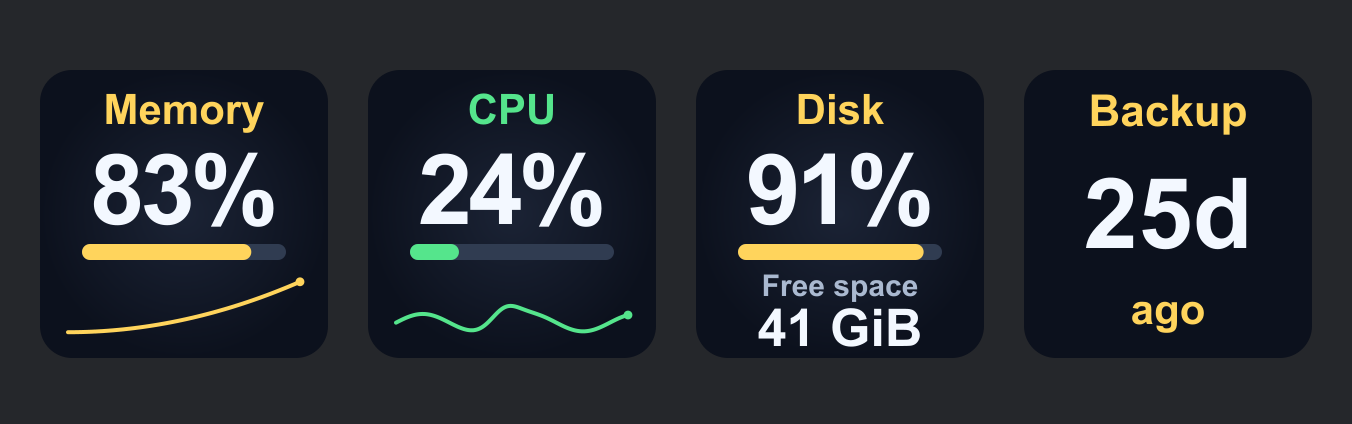
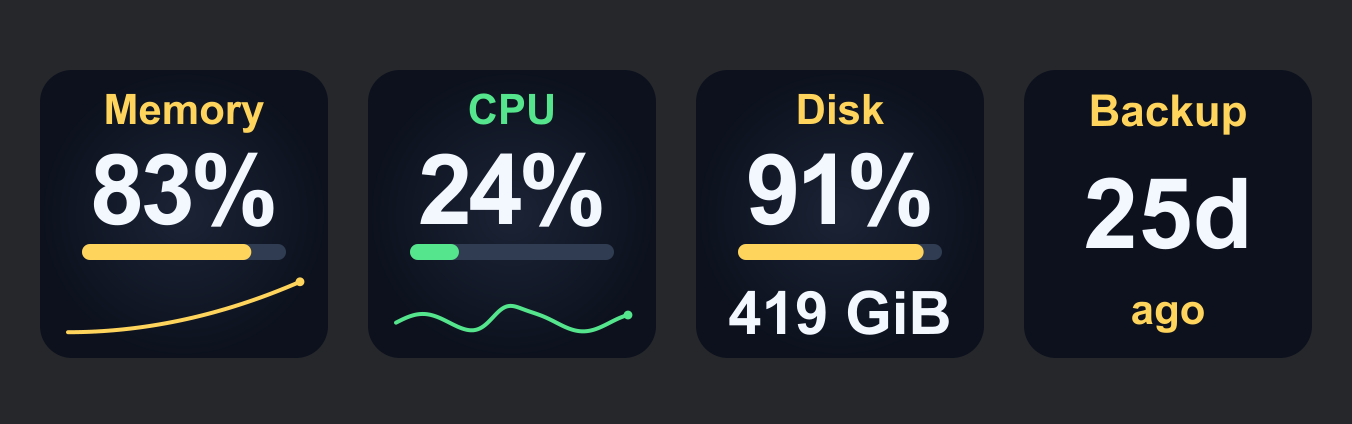
Toggle disk used and remaining capacity on key press

Changed region(s): [[0.5281, 0.6439, 0.7145, 0.8278]]

diff --git a/com.astakhoff.mac-health.sdPlugin/ui/settings.html b/com.astakhoff.mac-health.sdPlugin/ui/settings.html
@@ -1,9 +1,9 @@
 <!doctype html><html lang="en"><meta charset="utf-8"><style>
-*{box-sizing:border-box}body{margin:16px;background:#202124;color:#e7ebf1;font:13px -apple-system,BlinkMacSystemFont,sans-serif}h3{color:#a7c9ed;font-size:13px;letter-spacing:1px}p{color:#b3bdcc;line-height:1.5}label{display:block;margin:12px 0 5px}input{width:100%;height:32px;padding:4px;background:#11151c;border:1px solid #465065;border-radius:6px;color:white}#preview{float:right;width:90px;height:90px;margin:0 0 10px 10px}#status{clear:both;background:#171c24;border-radius:8px;padding:12px;white-space:pre-line;line-height:1.5}.row{display:grid;grid-template-columns:1fr 1fr;gap:12px}.colors{display:grid;grid-template-columns:repeat(3,1fr);gap:10px}#error{color:#ffd45c;margin-top:10px}[hidden]{display:none!important}a{color:#a7c9ed}
+*{box-sizing:border-box}body{margin:16px;background:#202124;color:#e7ebf1;font:13px -apple-system,BlinkMacSystemFont,sans-serif}h3{color:#a7c9ed;font-size:13px;letter-spacing:1px}p{color:#b3bdcc;line-height:1.5}label{display:block;margin:12px 0 5px}select{background:#11151c;color:white;padding:8px;width:100%}input{width:100%;height:32px;padding:4px;background:#11151c;border:1px solid #465065;border-radius:6px;color:white}#preview{float:right;width:90px;height:90px;margin:0 0 10px 10px}#status{clear:both;background:#171c24;border-radius:8px;padding:12px;white-space:pre-line;line-height:1.5}.row{display:grid;grid-template-columns:1fr 1fr;gap:12px}.colors{display:grid;grid-template-columns:repeat(3,1fr);gap:10px}#error{color:#ffd45c;margin-top:10px}[hidden]{display:none!important}a{color:#a7c9ed}
 </style><img id="preview" alt="Mac Health key preview"><h3 id="heading">MAC HEALTH</h3><p id="description">Connecting to the local monitor…</p><div id="status">Waiting for measurements</div>
 <section id="cpu" hidden><h3>CPU WARNING THRESHOLDS</h3><p>Percent of total CPU capacity, averaged over up to 10 seconds.</p><div class="row"><label>Warning at (%)<input id="cpuWarning" type="number" min="1" max="99"></label><label>Critical at (%)<input id="cpuCritical" type="number" min="2" max="100"></label></div></section>
-<section id="disk" hidden><h3>DISK WARNING THRESHOLDS</h3><p>Warn when either available percentage or available GiB reaches its threshold. This is capacity, not disk activity or drive health.</p><div class="row"><label>Warning below (%)<input id="diskWarning" type="number" min="1" max="100"></label><label>Critical below (%)<input id="diskCritical" type="number" min="0" max="99"></label><label>Warning below (GiB)<input id="diskWarningGiB" type="number" min="0" step="1"></label><label>Critical below (GiB)<input id="diskCriticalGiB" type="number" min="0" step="1"></label></div></section>
-<h3>STATUS COLORS</h3><p>Green: normal. Yellow: warning. Red: critical. Colors are fixed; status words appear here in settings, not on the key. Gray means readings are unavailable.</p><div id="error"></div><p>Resource readings update every 2 seconds; Time Machine metadata updates every minute while a Mac Health key is visible. Each metric is a separate action. Press the key to open Activity Monitor, Disk Utility for Disk, or System Settings for Backup.</p><p><a href="https://github.com/Astakhoff/stream_deck_mac_health/blob/main/docs/INSTALLATION.md">Setup and interpretation guide</a></p>
+<section id="disk" hidden><h3>DISK DISPLAY</h3><label>Percentage and capacity<select id="diskMode"><option value="used">Used</option><option value="remaining">Remaining</option></select></label><p>Press the key to switch modes. The bar always shows used capacity. Color always follows available-space thresholds.</p><h3>DISK WARNING THRESHOLDS</h3><p>Warn when either available percentage or available GiB reaches its threshold. This is capacity, not disk activity or drive health.</p><div class="row"><label>Warning below (%)<input id="diskWarning" type="number" min="1" max="100"></label><label>Critical below (%)<input id="diskCritical" type="number" min="0" max="99"></label><label>Warning below (GiB)<input id="diskWarningGiB" type="number" min="0" step="1"></label><label>Critical below (GiB)<input id="diskCriticalGiB" type="number" min="0" step="1"></label></div></section>
+<h3>STATUS COLORS</h3><p>Green: normal. Yellow: warning. Red: critical. Colors are fixed; status words appear here in settings, not on the key. Gray means readings are unavailable.</p><div id="error"></div><p>Resource readings update every 2 seconds; Time Machine metadata updates every minute while a Mac Health key is visible. Each metric is a separate action. Press Memory or CPU to open Activity Monitor; press Backup to open System Settings. Press Disk to toggle Used / Remaining.</p><p><a href="https://github.com/Astakhoff/stream_deck_mac_health/blob/main/docs/INSTALLATION.md">Setup and interpretation guide</a></p>
 <script>
 let ws,uuid,action,type,config={};
 const defaults={cpuWarning:80,cpuCritical:95,diskWarning:10,diskCritical:5,diskWarningGiB:20,diskCriticalGiB:10};
@@ -11,21 +11,22 @@ const ids=Object.keys(defaults);
 const gib=n=>typeof n==='number'?(n/1024**3).toFixed(1)+' GiB':'Unknown';
 function send(event,payload){if(ws?.readyState===1)ws.send(JSON.stringify({event,context:uuid,payload}));}
 window.connectElgatoStreamDeckSocket=function(port,id,registerEvent,info,actionInfo){
- uuid=id;const a=JSON.parse(actionInfo);action=a.action;type=action.split('.').at(-1);config={...defaults,...a.payload?.settings};
+ uuid=id;const a=JSON.parse(actionInfo);action=a.action;type=action.split('.').at(-1);config={...defaults,diskMode:'used',...a.payload?.settings};document.getElementById('diskMode').value=config.diskMode;
  document.getElementById('heading').textContent=type==='cpu'?'CPU':type==='disk'?'DISK':type==='backup'?'BACKUP':'MEMORY';
- document.getElementById('description').textContent={memory:'Color follows macOS memory pressure. The percentage estimates physical memory in use, excluding reclaimable file cache. The schematic line shows swap allocation over the last 5 minutes. A flat line means swap allocation is stable; rising allocation alone does not determine pressure.',cpu:'Overall CPU usage across all logical processors. 100% means all CPU capacity is busy; the line shows raw load over the last 5 minutes. Color combines averaged load and macOS thermal pressure; this is not a Celsius measurement.',backup:'Time since the latest known completed Time Machine backup across configured destinations. Reads local metadata every minute, even when the backup disk is disconnected. Green: under 7 days; yellow: 7–29 days; red: 30+ days. Months represent 30-day periods. Unknown does not mean you have never backed up. Press to open System Settings.',disk:'Used capacity and available space on the startup data volume. APFS volumes share container capacity; purgeable storage is not counted as immediately available.'}[type];
+ document.getElementById('description').textContent={memory:'Color follows macOS memory pressure. The percentage estimates physical memory in use, excluding reclaimable file cache. The schematic line shows swap allocation over the last 5 minutes. A flat line means swap allocation is stable; rising allocation alone does not determine pressure.',cpu:'Overall CPU usage across all logical processors. 100% means all CPU capacity is busy; the line shows raw load over the last 5 minutes. Color combines averaged load and macOS thermal pressure; this is not a Celsius measurement.',backup:'Time since the latest known completed Time Machine backup across configured destinations. Reads local metadata every minute, even when the backup disk is disconnected. Green: under 7 days; yellow: 7–29 days; red: 30+ days. Months represent 30-day periods. Unknown does not mean you have never backed up. Press to open System Settings.',disk:'Toggle used or remaining percentage and matching GiB on the startup data volume. The bar always shows used capacity. APFS volumes share container capacity; purgeable storage is not counted as immediately available.'}[type];
  if(type==='cpu'||type==='disk')document.getElementById(type).hidden=false;
  document.getElementById('preview').src='../imgs/'+type+'-key.svg';
  ids.forEach(k=>document.getElementById(k).value=config[k]);
  ws=new WebSocket('ws://127.0.0.1:'+port);ws.onopen=()=>ws.send(JSON.stringify({event:registerEvent,uuid}));
- ws.onmessage=e=>{const m=JSON.parse(e.data);if(m.event!=='sendToPropertyInspector')return;const {sample,error,image,view}=m.payload;
+ ws.onmessage=e=>{const m=JSON.parse(e.data);if(m.event!=='sendToPropertyInspector')return;const {sample,error,image,view}=m.payload;if(m.payload.settings){config={...config,...m.payload.settings};document.getElementById('diskMode').value=config.diskMode;}
  if(image)document.getElementById('preview').src=image;
  let text=view?view.label+' · '+view.main:'Waiting for measurements';
- if(sample){if(type==='backup')text+='\nLatest known completed backup: '+(sample.backup?.lastCompleted?new Date(sample.backup.lastCompleted).toLocaleString('en-US'):'Unknown')+'\nMetadata checked: '+(sample.backup?.checkedAt?new Date(sample.backup.checkedAt).toLocaleString('en-US'):'Unavailable')+'\nSource: local Time Machine destination metadata. No backup files are read.';text+='\nChecked: '+new Date(sample.timestamp).toLocaleTimeString('en-US');if(type==='memory')text+='\nUsed estimate: '+gib(sample.memory?.used)+' / '+gib(sample.memory?.total)+'\nCompressed: '+gib(sample.memory?.compressed)+'\nSwap: '+gib(sample.memory?.swap)+'\nmacOS pressure level: '+(sample.memory?.pressure??'Unavailable');if(type==='disk')text+='\nAvailable: '+gib(sample.disk?.available)+' / '+gib(sample.disk?.total);if(type==='cpu')text+='\nAveraging window: '+sample.cpuWindowSeconds+' seconds\nSystem thermal state: '+(['Nominal','Fair','Serious','Critical'][sample.thermal]??'Unavailable');
+ if(sample){if(type==='backup')text+='\nLatest known completed backup: '+(sample.backup?.lastCompleted?new Date(sample.backup.lastCompleted).toLocaleString('en-US'):'Unknown')+'\nMetadata checked: '+(sample.backup?.checkedAt?new Date(sample.backup.checkedAt).toLocaleString('en-US'):'Unavailable')+'\nSource: local Time Machine destination metadata. No backup files are read.';text+='\nChecked: '+new Date(sample.timestamp).toLocaleTimeString('en-US');if(type==='memory')text+='\nUsed estimate: '+gib(sample.memory?.used)+' / '+gib(sample.memory?.total)+'\nCompressed: '+gib(sample.memory?.compressed)+'\nSwap: '+gib(sample.memory?.swap)+'\nmacOS pressure level: '+(sample.memory?.pressure??'Unavailable');if(type==='disk')text+='\nDisplay: '+(config.diskMode==='remaining'?'Remaining':'Used')+'\nAvailable: '+gib(sample.disk?.available)+' / '+gib(sample.disk?.total);if(type==='cpu')text+='\nAveraging window: '+sample.cpuWindowSeconds+' seconds\nSystem thermal state: '+(['Nominal','Fair','Serious','Critical'][sample.thermal]??'Unavailable');
  const series=type==='memory'?sample.history?.swap:type==='cpu'?sample.history?.cpu:null;
  if(series?.length){const valid=series.filter(p=>typeof p.value==='number');text+='\nGraph: rolling 5-minute window; '+(valid.length?Math.round((valid.at(-1).timestamp-valid[0].timestamp)/1000):0)+' seconds collected';if(type==='memory'&&valid.length>1){const delta=(valid.at(-1).value-valid[0].value)/1024**2;text+='\nSwap change over collected samples: '+(delta>=0?'+':'')+delta.toFixed(1)+' MiB';}}}
  if(error)text+='\n'+error+' — check the installation guide.';document.getElementById('status').textContent=text;};
 };
+document.getElementById('diskMode').addEventListener('change',e=>{config={...config,diskMode:e.target.value};send('setSettings',config);});
 ids.forEach(id=>document.getElementById(id).addEventListener('change',()=>{
  const next={...config};ids.forEach(k=>next[k]=Number(document.getElementById(k).value));
  const valid=Number.isFinite(next.cpuWarning)&&next.cpuWarning>=1&&next.cpuWarning<next.cpuCritical&&next.cpuCritical<=100&&next.diskCritical>=0&&next.diskCritical<next.diskWarning&&next.diskWarning<=100&&next.diskCriticalGiB>=0&&next.diskCriticalGiB<next.diskWarningGiB&&next.diskWarningGiB<=100000;

diff --git a/com.astakhoff.mac-health.sdPlugin/bin/metrics.js b/com.astakhoff.mac-health.sdPlugin/bin/metrics.js
@@ -3,7 +3,7 @@ const GIB = 1024 ** 3;
 const finite = (n) => typeof n === 'number' && Number.isFinite(n);
 const defaults = {cpuWarning:80,cpuCritical:95,diskWarning:10,diskCritical:5,diskWarningGiB:20,diskCriticalGiB:10};
 function settings(raw={}) {
-  const s={...defaults};
+  const s={...defaults,diskMode:raw.diskMode==='remaining'?'remaining':'used'};
   for(const key of ['cpuWarning','cpuCritical','diskWarning','diskCritical','diskWarningGiB','diskCriticalGiB']) if(raw[key]!==undefined && Number.isFinite(Number(raw[key]))) s[key]=Number(raw[key]);
   if(!(s.cpuWarning>=1 && s.cpuWarning<s.cpuCritical && s.cpuCritical<=100)) {s.cpuWarning=80;s.cpuCritical=95;}
   if(!(s.diskCritical>=0 && s.diskCritical<s.diskWarning && s.diskWarning<=100)) {s.diskWarning=10;s.diskCritical=5;}
@@ -57,6 +57,7 @@ function view(kind,data,config={},error=null,now=Date.now()) {
   const level=classify(kind,data,config), label={normal:'Normal',warning:'Warning',critical:'Critical',unknown:'Unknown'}[level];
   if(kind==='memory') return {title:'Memory',main:data.memory?Math.round(data.memory.percent)+'%':'—',label,detail:data.memory?.swap!==null&&data.memory? 'Swap '+gib(data.memory.swap):'Swap unknown',graph:{points:data.history?.swap||[],windowEnd:data.timestamp,minSpan:256*1024**2},percent:data.memory?.percent??null,level};
   if(kind==='cpu') return {title:'CPU',main:finite(data.cpuAverage)?Math.round(data.cpuAverage)+'%':'—',label:finite(data.cpuAverage)?label:'Sampling',detail:finite(data.cpuAverage)?'CPU load history':'First sample…',graph:{points:data.history?.cpu||[],windowEnd:data.timestamp,min:0,max:100},percent:data.cpuAverage,level};
-  return {title:'Disk',main:data.disk?Math.round(data.disk.percent)+'%':'—',label,detail:data.disk?gib(data.disk.available)+' free':'No disk data',detailLabel:'Free space',detailValue:data.disk?gib(data.disk.available):'Unknown',percent:data.disk?.percent??null,level};
+  const remaining=settings(config).diskMode==='remaining';
+  return {title:'Disk',main:data.disk?Math.round(remaining?data.disk.freePercent:data.disk.percent)+'%':'—',label,detail:data.disk?gib(remaining?data.disk.available:data.disk.total-data.disk.available):'No disk data',percent:data.disk?.percent??null,level,diskMode:remaining?'remaining':'used'};
 }
 module.exports={GIB,defaults,settings,normalize,createAverage,classify,view,gib};

diff --git a/com.astakhoff.mac-health.sdPlugin/bin/render.js b/com.astakhoff.mac-health.sdPlugin/bin/render.js
@@ -11,7 +11,7 @@ function render(v,raw={}) {
       ? renderGraph(v.graph,color)
     : v.detailLabel
       ? `<text x="72" y="113" font-size="15" fill="#aab9d0">${escape(v.detailLabel)}</text><text x="72" y="138" font-size="26" fill="#f3f8ff">${escape(v.detailValue)}</text>`
-      : `<text x="72" y="130" font-size="25" fill="#f3f8ff">${escape(v.detail)}</text>`;
+      : `<text x="72" y="132" font-size="30" fill="#f3f8ff">${escape(v.detail)}</text>`;
   const percent=typeof v.percent==='number'&&Number.isFinite(v.percent)?Math.max(0,Math.min(100,v.percent)):null;
   return `<svg xmlns="http://www.w3.org/2000/svg" width="144" height="144" viewBox="0 0 144 144"><defs><radialGradient id="bg"><stop stop-color="#1b2335"/><stop offset="1" stop-color="#0c111d"/></radialGradient></defs><rect width="144" height="144" rx="16" fill="url(#bg)"/><g font-family="Arial,Helvetica,sans-serif" text-anchor="middle" font-weight="800"><text x="72" y="27" font-size="21" fill="${color}">${escape(v.title)}</text><text x="72" y="77" font-size="49" letter-spacing="-2" fill="#f3f8ff">${escape(v.main)}</text><rect x="21" y="87" width="102" height="8" rx="4" fill="#303c51"/>${percent>0?`<rect x="21" y="87" width="${102*percent/100}" height="8" rx="4" fill="${color}"/>`:''}${bottom}</g></svg>`;
 }

diff --git a/com.astakhoff.mac-health.sdPlugin/bin/controller.js b/com.astakhoff.mac-health.sdPlugin/bin/controller.js
@@ -24,7 +24,13 @@ function createController(sd,monitor,openApp){
   sd.ui.onDidAppear(ev=>{const r=actions.get(ev.action.id);if(r)paint(r);});
   sd.actions.onKeyDown(async ev=>{
     const r=actions.get(ev.action.id);if(!r)return;
-    try{await openApp(r.type==='backup'?'com.apple.systempreferences':r.type==='disk'?'com.apple.DiskUtility':'com.apple.ActivityMonitor');}
+    if(r.type==='disk'){
+      const next={...r.config,diskMode:r.config.diskMode==='remaining'?'used':'remaining'};
+      try{await r.action.setSettings(next);r.config=next;paint(r);}
+      catch{await Promise.resolve(ev.action.showAlert()).catch(()=>{});}
+      return;
+    }
+    try{await openApp(r.type==='backup'?'com.apple.systempreferences':'com.apple.ActivityMonitor');}
     catch{await Promise.resolve(ev.action.showAlert()).catch(()=>{});}
   });
   monitor.on('sample',paintAll);monitor.on('problem',paintAll);

diff --git a/README.md b/README.md
@@ -12,10 +12,10 @@ The keys help you notice resource pressure while working with many applications.
 | --- | --- | --- | --- |
 | Memory | Estimated physical RAM used | macOS coarse memory-pressure level | Schematic 5-minute swap trend |
 | CPU | Average total CPU usage over up to 10 seconds | Configurable CPU thresholds | Schematic 5-minute load trend |
-| Disk | Used startup data-volume capacity | Configurable available-space thresholds | Available space in GiB |
+| Disk | Used or remaining percentage; bar always shows used capacity | Configurable available-space thresholds | Used or remaining GiB |
 | Backup | Time since last known completed Time Machine backup | Age: green <7d, yellow 7–29d, red ≥30d | ago |
 
-Status words are hidden on keys: the title and bar use fixed green (normal), yellow (warning), and red (critical). Memory and CPU use the lower area for schematic rolling 5-minute graphs, without axes, scales, legends, or extra numbers. Disk retains its large available-space amount. Status text remains in action settings; unavailable readings stay explicitly marked. Each action has its own thresholds where applicable. All visible actions share one small native sampler, which reads system counters every **2 seconds**. Sampling stops when no Mac Health action is visible. Press Memory or CPU to open Activity Monitor; press Disk to open Disk Utility.
+Status words are hidden on keys: the title and bar use fixed green (normal), yellow (warning), and red (critical). Memory and CPU use the lower area for schematic rolling 5-minute graphs, without axes, scales, legends, or extra numbers. Disk shows a large capacity amount matching the selected Used / Remaining mode, without a Free space caption. Status text remains in action settings; unavailable readings stay explicitly marked. Each action has its own thresholds where applicable. All visible actions share one small native sampler, which reads system counters every **2 seconds**. Sampling stops when no Mac Health action is visible. Press Memory or CPU to open Activity Monitor; press Disk to toggle **Used / Remaining**; the selected mode is saved per key.
 
 ### Memory
 
@@ -33,7 +33,7 @@ Defaults: **Warning at 80%**, **Critical at 95%**. Brief spikes are averaged; co
 
 ### Disk
 
-Disk reads available capacity on `/System/Volumes/Data`. Defaults:
+Disk reads capacity on `/System/Volumes/Data`. Press to toggle between used percentage + used GiB and remaining percentage + available GiB. The bar always shows used capacity in either mode. The selected mode is saved per key and can also be changed in settings. Existing keys start in Used mode; the first press shows Remaining. Color always follows available-space thresholds. Defaults:
 
 - Warning: **10% or less free**, or **20 GiB or less available**.
 - Critical: **5% or less free**, or **10 GiB or less available**.

diff --git a/docs/INSTALLATION.md b/docs/INSTALLATION.md
@@ -10,15 +10,15 @@
 
 The keys are independent. They do not alternate between metrics and there is no combined key. Add them to any existing page, or create a separate page for Mac Health.
 
-Colors are fixed: green means normal, yellow warning, and red critical. These words appear only in the settings panel; Memory and CPU use that space for schematic 5-minute trend lines; Disk shows larger free-space details. CPU has configurable usage thresholds; Disk has configurable available-space percentage and GiB thresholds. Memory uses macOS pressure status rather than configurable occupied-RAM thresholds.
+Colors are fixed: green means normal, yellow warning, and red critical. These words appear only in the settings panel; Memory and CPU use that space for schematic 5-minute trend lines; Disk shows a larger capacity amount matching its Used / Remaining mode. CPU has configurable usage thresholds; Disk has configurable available-space percentage and GiB thresholds. Memory uses macOS pressure status rather than configurable occupied-RAM thresholds.
 
 ## Reading the keys
 
 - **Memory:** occupied-RAM estimate and a schematic swap-allocation trend for the last 5 minutes. High occupied RAM or swap alone does not necessarily imply critical pressure. Yellow/red pressure is a reason to inspect your workload in Activity Monitor.
 - **CPU:** overall usage, averaged over up to 10 seconds. The first reading needs a second counter sample, so CPU initially says Sampling. The lower line graph shows raw load over the last 5 minutes. Color also reflects macOS thermal pressure, not a temperature in degrees.
-- **Disk:** percentage used and available GiB on the startup data volume. Freeing disk space and closing applications are your own actions; the plugin never does either automatically.
+- **Disk:** used or remaining percentage and matching GiB on the startup data volume. Press to toggle; the bar always shows used capacity and the color always follows free-space thresholds. Freeing disk space and closing applications are your own actions; the plugin never does either automatically.
 
-Press Memory or CPU to open Activity Monitor. Press Disk to open Disk Utility. These launches only occur when you press a key.
+Press Memory or CPU to open Activity Monitor. Press Disk to toggle **Used / Remaining**; the selected mode is saved per key. These launches only occur when you press a key.
 
 ## Time Machine backup age
 

diff --git a/CHANGELOG.md b/CHANGELOG.md
@@ -1,5 +1,11 @@
 # Changelog
 
+## 1.4.0 — 2026-11-02
+
+- Press Disk to toggle saved Used / Remaining percentage and matching GiB.
+- Keep the bar tied to used capacity and color tied to available-space thresholds in both modes.
+- Remove the Free space caption and enlarge the capacity amount.
+
 ## 1.3.0 — 2026-11-02
 
 - Add a separate Time Machine Backup action with a large elapsed age and an ago footer.
